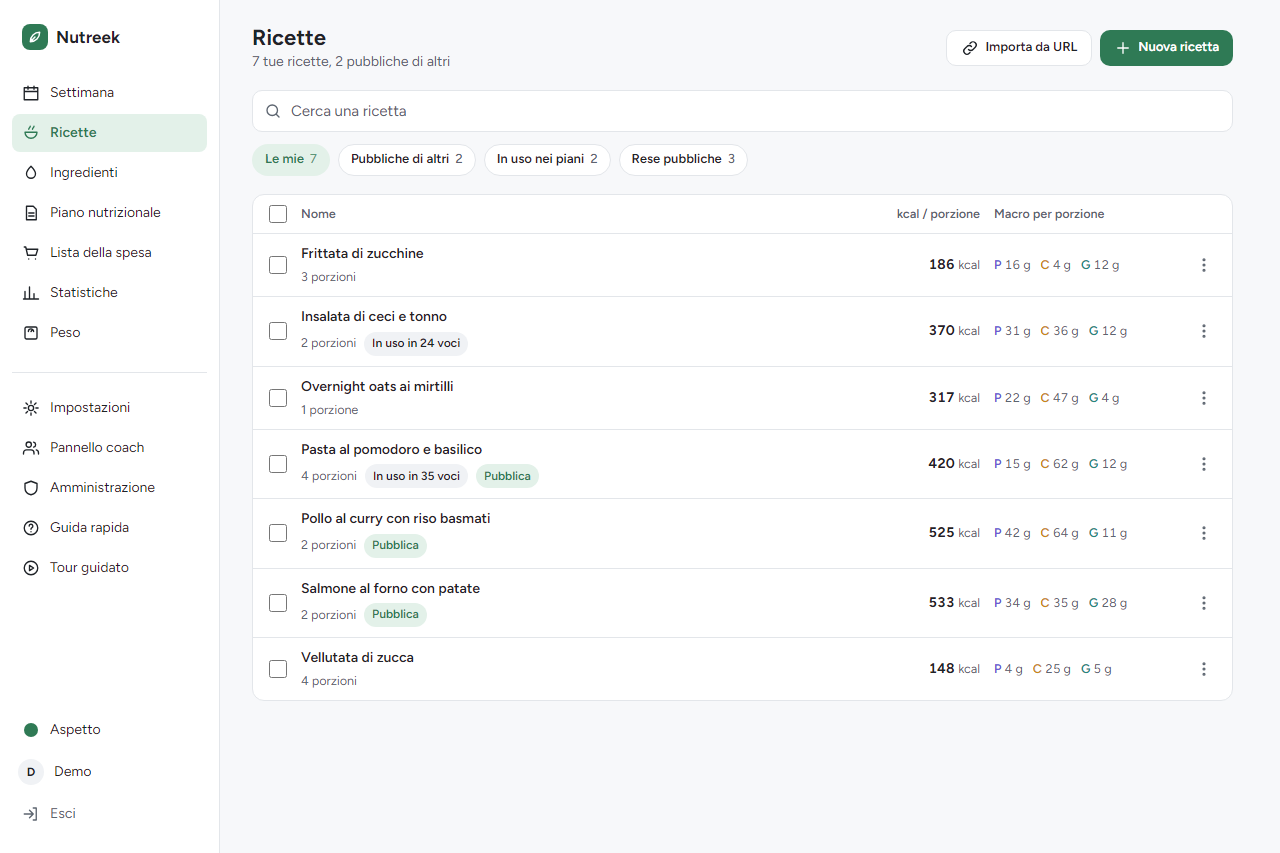
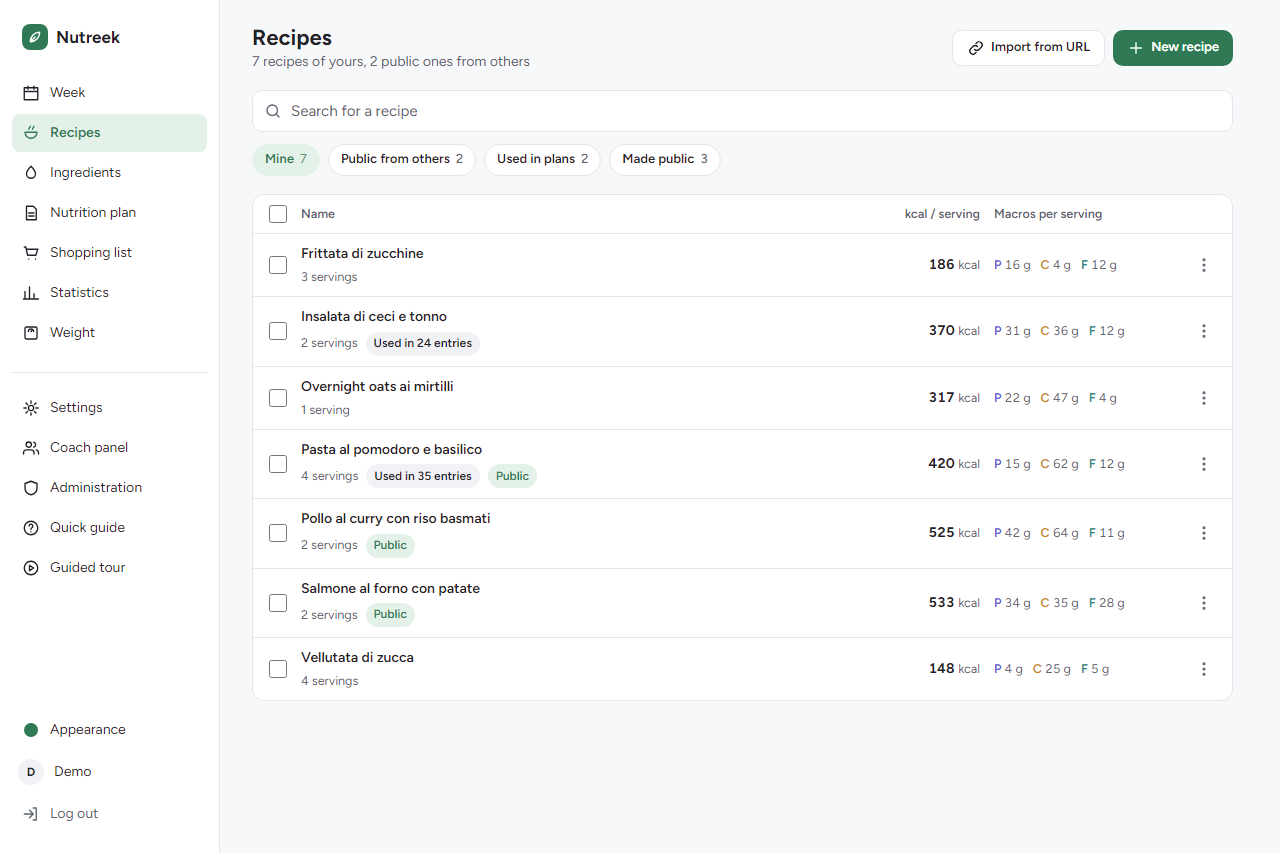
docs(nutreek): say the interface is in English and Italian, English shots
Nutreek now ships in English and Italian (easly1989/nutreek#141), so the
page says so and its screenshots show the English interface, taken from
the README's docs/screenshots/en. The phone collage is rebuilt from the
English phone shots.

diff --git a/nutreek.html b/nutreek.html
@@ -86,7 +86,7 @@
           <p class="quiet">
             It runs either natively as a single Go binary, with no external dependencies, or as one
             Docker container — SQLite is embedded, so there is no separate database service to
-            operate. The interface is in Italian, in light and dark, and installs on a phone like
+            operate. The interface is in English and Italian, in light and dark, and installs on a phone like
             an app.
           </p>
           <figure>
